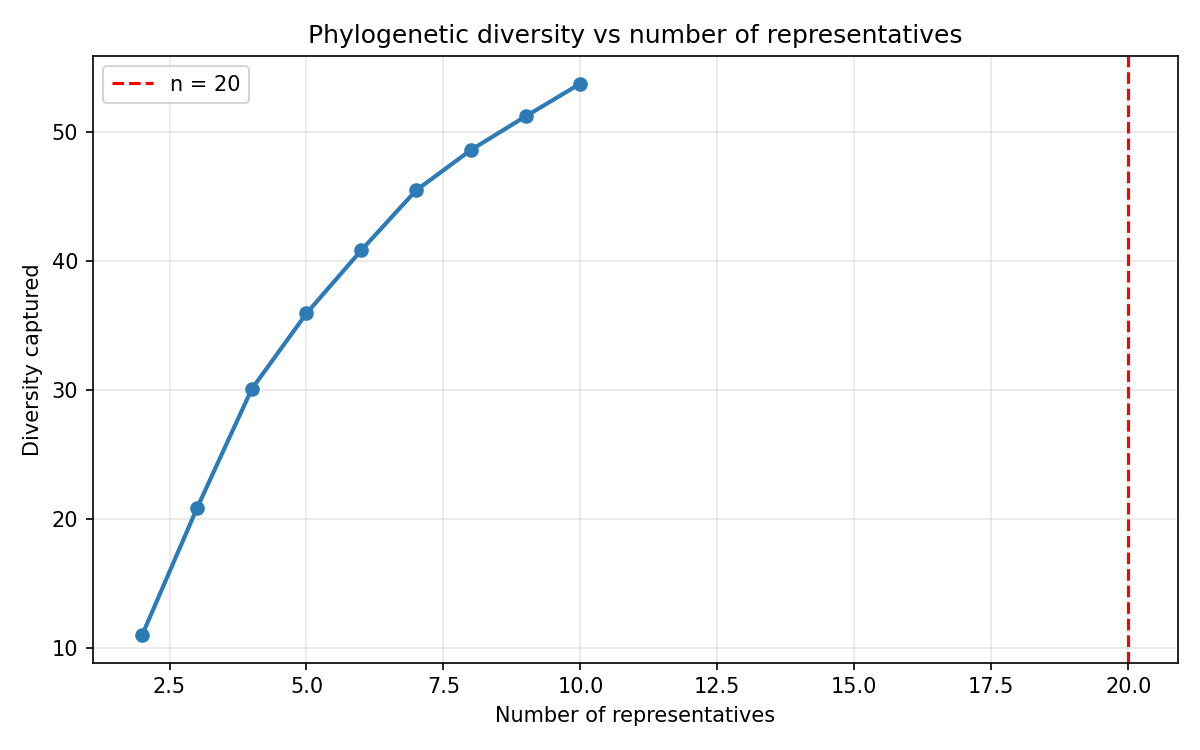
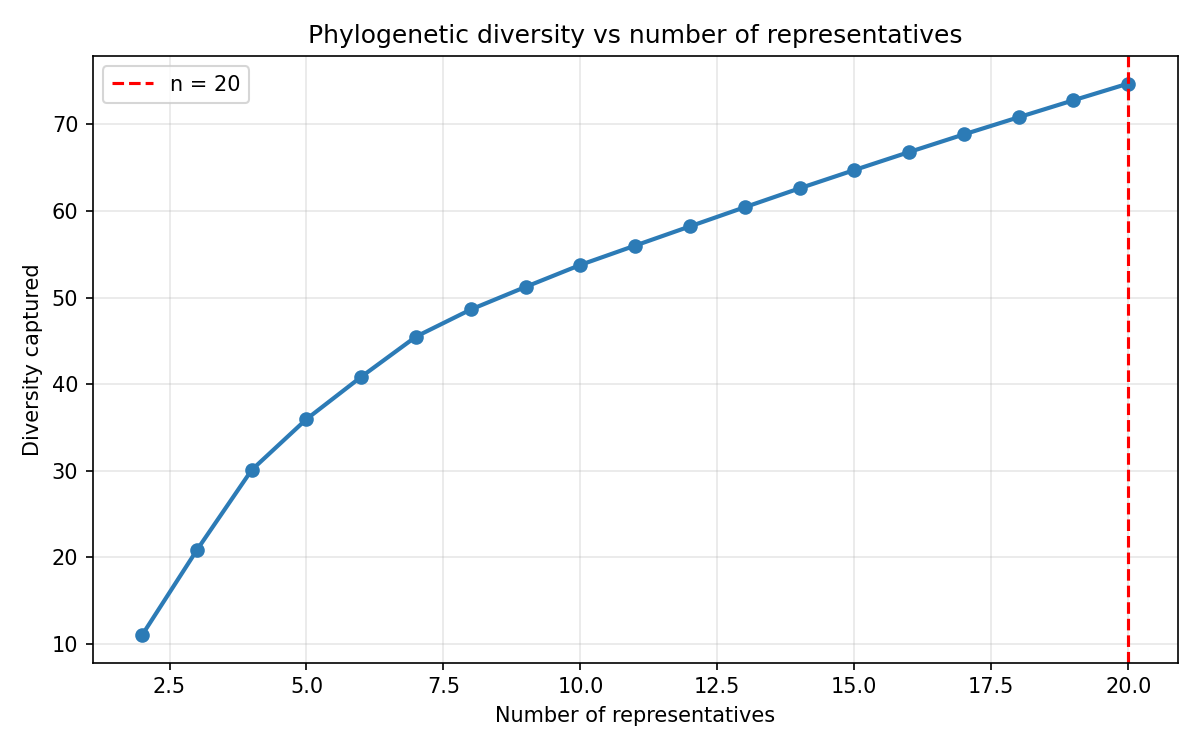
Fix diversity elbow curve to cover full n, not just phylo budget
PARNAS was called with -n n_phylo (the phylo slot budget), so the
diversity CSV only reached n=10 for a run with --n 20 --alpha 0.5.
Now passes n_total to run_parnas so the elbow curve covers n=2..N,
giving the full picture for choosing N before running select.

diff --git a/src/repseq/phylo.py b/src/repseq/phylo.py
@@ -42,16 +42,21 @@ def run_mashtree(assemblies_dir: str, output_dir: str) -> str:
     return tree_path
 
 
-def run_parnas(tree_path: str, n_phylo: int, output_dir: str) -> list[str]:
-    """Run PARNAS to select n_phylo representative samples. Returns list of sample IDs."""
+def run_parnas(tree_path: str, n_phylo: int, output_dir: str, n_total: int | None = None) -> list[str]:
+    """Run PARNAS to select n_phylo representative samples. Returns list of sample IDs.
+
+    n_total is passed to --diversity so the elbow curve covers the full requested budget,
+    not just the phylo slice. If omitted, the diversity CSV only goes up to n_phylo.
+    """
     if n_phylo <= 0:
         return []
 
+    diversity_n = n_total if (n_total and n_total > n_phylo) else n_phylo
     diversity_csv = os.path.join(output_dir, "diversity_scores.csv")
     cmd = [
         "parnas",
         "-t", tree_path,
-        "-n", str(n_phylo),
+        "-n", str(diversity_n),
         "--diversity", diversity_csv,
     ]
     print_message(f"Running PARNAS to select {n_phylo} phylogenetically diverse samples...", "info")
@@ -59,12 +64,8 @@ def run_parnas(tree_path: str, n_phylo: int, output_dir: str) -> list[str]:
     if result.returncode != 0:
         raise click.ClickException(f"PARNAS failed:\n{result.stderr}")
 
-    # PARNAS outputs selected taxa to stdout, one per line
-    selected = []
-    for line in result.stdout.strip().splitlines():
-        line = line.strip()
-        if line:
-            sample_id = Path(line).stem
-            selected.append(sample_id)
+    # PARNAS outputs selected taxa to stdout, one per line (first n_phylo are the selection)
+    all_lines = [Path(ln.strip()).stem for ln in result.stdout.strip().splitlines() if ln.strip()]
+    selected = all_lines[:n_phylo]
     print_message(f"PARNAS selected {len(selected)} samples: {selected}", "success")
     return selected

diff --git a/src/repseq/select.py b/src/repseq/select.py
@@ -144,7 +144,7 @@ def run_select(
             f"Budget split: {n_phylo} phylogenetic + {n_amr} AMR/replicon (alpha={alpha})",
             "info",
         )
-        phylo_selected = run_parnas(tree_path, n_phylo, output_dir)
+        phylo_selected = run_parnas(tree_path, n_phylo, output_dir, n_total=n)
         amr_selected = greedy_set_cover(binary_matrix, phylo_selected, n_amr)
         all_selected = phylo_selected + amr_selected
         print_message(f"Final selection: {len(all_selected)} samples", "success")
